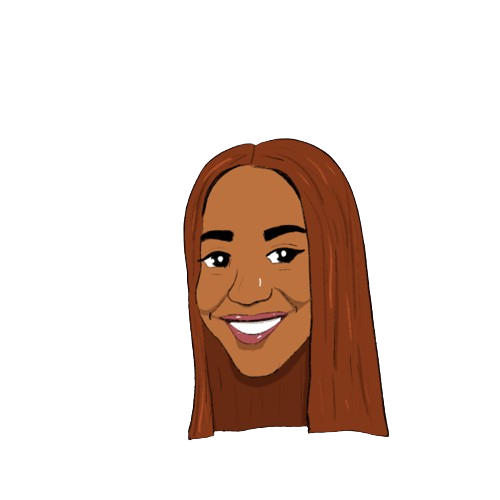
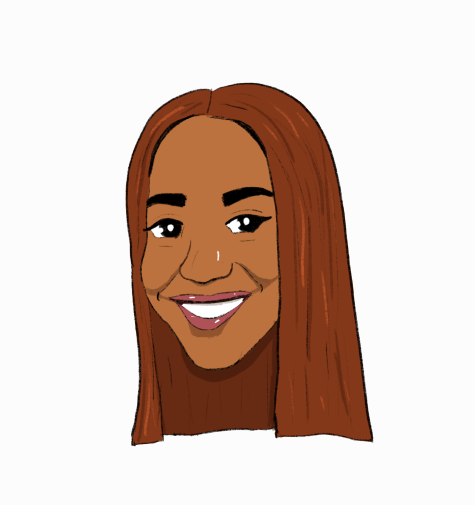
added button

Changed region(s): [[0.2653, 0.15, 0.7958, 0.9]]

diff --git a/src/components/Hero/Hero.js b/src/components/Hero/Hero.js
@@ -1,8 +1,11 @@
 import React from "react";
 import Ellipse4 from "../../Assets/Ellipse4.png";
 import Ellipse5 from "../../Assets/Ellipse5.png";
-import Ellipse6 from "../../Assets/Ellipse6.png";
+// import Ellipse6 from "../../Assets/Ellipse6.png";
+import button from "../../Assets/button.png";
+import Ellipse7 from "../../Assets/Ellipse7.png";
 import magic from "../../Assets/magic.png";
+
 import picture from "../../Assets/picture.png";
 
 const Hero = () => {
@@ -10,9 +13,6 @@ const Hero = () => {
     opacity: "1",
   };
 
-  // const stop = {
-  //   "stop-color: rgb(244, 242, 241)"
-  // }
   return (
     <section className="h-[64rem] bg-[#040013]">
       <header>
@@ -37,26 +37,33 @@ const Hero = () => {
             </p>
           </div>
           <div className="relative">
-            <img
+            {/* <img
               src={Ellipse6}
               alt=""
-              className="Ellipse2 absolute -top-[12rem] left-[20rem]"
-            />
+              className="Ellipse2 absolute -top-[8rem] left-[28rem]"
+            /> */}
           </div>
           <div className="flex flex-col relative justify-center -mt-5 items-center">
             <svg
               version="1.1"
               xmlns="http://www.w3.org/2000/svg"
               viewBox="0 0 500 500"
-              width="17.5%"
-              height="16%"
+              width="22%"
               id="blobSvg"
               style={{ opacity: 1 }}
               filter="blur(0px)"
-              transform="rotate(-177)"
-              className="blob"
+              transform="rotate(0)"
             >
-              {" "}
+              <image
+                x="0"
+                y="0"
+                width="100%"
+                height="100%"
+                clipPath="url(#shape)"
+                href={picture}
+                preserveAspectRatio="none"
+                fill="white"
+              ></image>{" "}
               <defs>
                 {" "}
                 <linearGradient id="gradient" x1="0%" y1="0%" x2="0%" y2="100%">
@@ -65,13 +72,16 @@ const Hero = () => {
                   <stop offset="100%" style={{ stopColor: "white" }} />{" "}
                 </linearGradient>{" "}
               </defs>{" "}
-              <path id="blob" fill="url(#gradient)" style={{ ...blobStyle }}>
-                <animate
-                  attributeName="d"
-                  dur="9000ms"
-                  repeatCount="indefinite"
-                  values="M425.57934,323.79599Q426.22734,397.59197,355.10104,419.41516Q283.97474,441.23834,222.29242,423.00907Q160.6101,404.77979,95.49644,367.33031Q30.38277,329.88083,44.58128,255.13536Q58.77979,180.3899,99.7419,120.41159Q140.70401,60.43329,214.57221,45.49287Q288.44042,30.55246,350.61367,72.29792Q412.78692,114.04339,418.85914,182.0217Q424.93135,250,425.57934,323.79599Z;M428.39652,310.63781Q395.12039,371.27562,337.58607,396.3189Q280.05174,421.36219,204.00896,441.94775Q127.96619,462.5333,107.32787,385.81839Q86.68955,309.10348,96.33581,253.18955Q105.98207,197.27562,134.68904,148.26665Q163.396,99.25769,224.43929,74.05174Q285.48258,48.8458,334.83632,93.40548Q384.19006,137.96516,422.93135,193.98258Q461.67264,250,428.39652,310.63781Z;M419.06254,317.79517Q411.11118,385.59033,349.66843,425.59894Q288.22568,465.60755,228.34547,428.45831Q168.46526,391.30906,120.24124,353.19622Q72.01722,315.08338,69.86103,249.40801Q67.70483,183.73263,103.47221,120.73263Q139.23958,57.73263,215.36631,36.75347Q291.49305,15.77432,346.41495,69.35242Q401.33686,122.93051,414.17538,186.46526Q427.0139,250,419.06254,317.79517Z;M453.57191,328.53752Q437.08754,407.07503,364.57816,448.74386Q292.06878,490.41269,219.55628,459.1657Q147.04377,427.91871,108.99375,371.46874Q70.94372,315.01876,56.52814,244.52814Q42.11255,174.03752,86.02814,107.96874Q129.94372,41.89995,209.98749,31.84993Q290.03126,21.79991,346.01876,71.89683Q402.00625,121.99375,436.03126,185.99687Q470.05628,250,453.57191,328.53752Z;M404.21696,312.89783Q400.5999,375.79567,344.18719,420.60848Q287.77447,465.42129,222.25959,438.51488Q156.7447,411.60848,114.36806,363.06382Q71.99143,314.51917,65.98083,247.80853Q59.97023,181.09788,105.72982,130.10217Q151.4894,79.10645,216.18088,77.25959Q280.87235,75.41272,335.88295,103.82341Q390.89355,132.2341,399.36378,191.11705Q407.83401,250,404.21696,312.89783Z;M429,328Q437,406,362,433Q287,460,218,442Q149,424,122.5,365Q96,306,74.5,242Q53,178,94.5,115Q136,52,206.5,73Q277,94,347.5,101.5Q418,109,419.5,179.5Q421,250,429,328Z;M433.0232,309.9192Q393.01281,369.83841,338.3352,406.40881Q283.6576,442.97921,221.7752,424.49281Q159.8928,406.0064,119.2384,358.9864Q78.584,311.9664,70.5304,246.7752Q62.4768,181.584,97.7552,114.4464Q133.0336,47.3088,206.208,64.61119Q279.3824,81.91359,342.208,100.8192Q405.0336,119.7248,439.0336,184.8624Q473.0336,250,433.0232,309.9192Z;M425.57934,323.79599Q426.22734,397.59197,355.10104,419.41516Q283.97474,441.23834,222.29242,423.00907Q160.6101,404.77979,95.49644,367.33031Q30.38277,329.88083,44.58128,255.13536Q58.77979,180.3899,99.7419,120.41159Q140.70401,60.43329,214.57221,45.49287Q288.44042,30.55246,350.61367,72.29792Q412.78692,114.04339,418.85914,182.0217Q424.93135,250,425.57934,323.79599Z"
-                ></animate>
+              <clipPath id="shape">
+                <path id="blob" fill="url(#gradient)" style={{ ...blobStyle }}>
+                  {" "}
+                  <animate
+                    attributeName="d"
+                    dur="10000ms"
+                    repeatCount="indefinite"
+                    values="M440.5,320.5Q418,391,355.5,442.5Q293,494,226,450.5Q159,407,99,367Q39,327,31.5,247.5Q24,168,89,125.5Q154,83,219.5,68Q285,53,335.5,94.5Q386,136,424.5,193Q463,250,440.5,320.5Z;M453.78747,319.98894Q416.97789,389.97789,353.96683,436.87838Q290.95577,483.77887,223.95577,447.43366Q156.95577,411.08845,105.64373,365.97789Q54.33169,320.86732,62.67444,252.61056Q71.01719,184.3538,113.01965,135.21007Q155.02211,86.06634,220.52211,66.46683Q286.02211,46.86732,335.5,91.94472Q384.97789,137.02211,437.78747,193.51106Q490.59704,250,453.78747,319.98894Z;M411.39826,313.90633Q402.59677,377.81265,342.92059,407.63957Q283.24442,437.46649,215.13648,432.5428Q147.02853,427.61911,82.23325,380.9572Q17.43796,334.29529,20.45223,250.83809Q23.46649,167.38089,82.5856,115.05707Q141.70471,62.73325,212.19045,63.73015Q282.67618,64.72705,352.67308,84.79839Q422.66998,104.86972,421.43486,177.43486Q420.19974,250,411.39826,313.90633Z;M440.5,320.5Q418,391,355.5,442.5Q293,494,226,450.5Q159,407,99,367Q39,327,31.5,247.5Q24,168,89,125.5Q154,83,219.5,68Q285,53,335.5,94.5Q386,136,424.5,193Q463,250,440.5,320.5Z;"
+                  ></animate>{" "}
+                </path>{" "}
                 <animateTransform
                   attributeName="transform"
                   attributeType="XML"
@@ -81,29 +91,27 @@ const Hero = () => {
                   dur="9000ms"
                   repeatCount="indefinite"
                 />
-              </path>
+              </clipPath>
             </svg>
-            <div className="absolute top-[1.5rem] left-[35.5rem]">
-              <img
-                src={picture}
-                alt=""
-                className="w-[17rem] h-[10rem] rounded-2xl object-cover"
-              />
-              <img
-                src={Ellipse5}
-                alt=""
-                className="absolute -top-[1rem] left-[10.5rem] Ellipse2"
-              />
-              <div className="relative">
-                <img
-                  src={Ellipse4}
-                  alt=""
-                  className="absolute top-[0.5rem] right-2 Ellipse"
-                />
-              </div>
+            <div className="absolute top-[2rem] right-[23rem]">
+              <img src={Ellipse5} alt="" className=" Ellipse2" />
+            </div>
+            <div className="absolute top-[7rem] left-[17rem]">
+              <img src={Ellipse7} alt="" className="Ellipse3" />
             </div>
           </div>
-          <div className="relative"></div>
+          <div className="relative">
+            <img
+              src={Ellipse4}
+              alt=""
+              className="absolute -top-[18rem] right-5 Ellipse4"
+            />
+          </div>
+          <div className="relative pt-[4.5rem]">
+            <button className="absolute inset-0 top-1/2 left-[43%] transform bg-gradient-to-b from-[#040013] via-[#040013] to-[#37024e] text-white border-[1px] border-[#A57F98] w-[12.5rem] h-[3.125rem] rounded-[1.875rem]">
+              Download my CV
+            </button>
+          </div>
         </div>
       </header>
     </section>

diff --git a/src/components/Store.js b/src/components/Store.js
@@ -1,0 +1,49 @@
+{
+  /* <svg
+              version="1.1"
+              xmlns="http://www.w3.org/2000/svg"
+              viewBox="0 0 500 500"
+              width="17.5%"
+              height="16%"
+              id="blobSvg"
+              style={{ opacity: 1 }}
+              filter="blur(0px)"
+              transform="rotate(-31)"
+            >
+              <image
+                x="0"
+                y="0"
+                width="100%"
+                height="100%"
+                clip-path="url(#shape)"
+                href={picture}
+                preserveAspectRatio="none"
+              ></image>
+              <defs>
+                {" "}
+                <linearGradient id="gradient" x1="0%" y1="0%" x2="0%" y2="100%">
+                  {" "}
+                  <stop offset="0%" style={{ stopColor: "white" }} />
+                  <stop offset="100%" style={{ stopColor: "white" }} />{" "}
+                </linearGradient>{" "}
+              </defs>{" "}
+              <path id="blob" fill="url(#gradient)" style={{ ...blobStyle }}>
+                <animate
+                  attributeName="d"
+                  dur="9000ms"
+                  repeatCount="indefinite"
+                  // values="M425.57934,323.79599Q426.22734,397.59197,355.10104,419.41516Q283.97474,441.23834,222.29242,423.00907Q160.6101,404.77979,95.49644,367.33031Q30.38277,329.88083,44.58128,255.13536Q58.77979,180.3899,99.7419,120.41159Q140.70401,60.43329,214.57221,45.49287Q288.44042,30.55246,350.61367,72.29792Q412.78692,114.04339,418.85914,182.0217Q424.93135,250,425.57934,323.79599Z;M428.39652,310.63781Q395.12039,371.27562,337.58607,396.3189Q280.05174,421.36219,204.00896,441.94775Q127.96619,462.5333,107.32787,385.81839Q86.68955,309.10348,96.33581,253.18955Q105.98207,197.27562,134.68904,148.26665Q163.396,99.25769,224.43929,74.05174Q285.48258,48.8458,334.83632,93.40548Q384.19006,137.96516,422.93135,193.98258Q461.67264,250,428.39652,310.63781Z;M419.06254,317.79517Q411.11118,385.59033,349.66843,425.59894Q288.22568,465.60755,228.34547,428.45831Q168.46526,391.30906,120.24124,353.19622Q72.01722,315.08338,69.86103,249.40801Q67.70483,183.73263,103.47221,120.73263Q139.23958,57.73263,215.36631,36.75347Q291.49305,15.77432,346.41495,69.35242Q401.33686,122.93051,414.17538,186.46526Q427.0139,250,419.06254,317.79517Z;M453.57191,328.53752Q437.08754,407.07503,364.57816,448.74386Q292.06878,490.41269,219.55628,459.1657Q147.04377,427.91871,108.99375,371.46874Q70.94372,315.01876,56.52814,244.52814Q42.11255,174.03752,86.02814,107.96874Q129.94372,41.89995,209.98749,31.84993Q290.03126,21.79991,346.01876,71.89683Q402.00625,121.99375,436.03126,185.99687Q470.05628,250,453.57191,328.53752Z;M404.21696,312.89783Q400.5999,375.79567,344.18719,420.60848Q287.77447,465.42129,222.25959,438.51488Q156.7447,411.60848,114.36806,363.06382Q71.99143,314.51917,65.98083,247.80853Q59.97023,181.09788,105.72982,130.10217Q151.4894,79.10645,216.18088,77.25959Q280.87235,75.41272,335.88295,103.82341Q390.89355,132.2341,399.36378,191.11705Q407.83401,250,404.21696,312.89783Z;M429,328Q437,406,362,433Q287,460,218,442Q149,424,122.5,365Q96,306,74.5,242Q53,178,94.5,115Q136,52,206.5,73Q277,94,347.5,101.5Q418,109,419.5,179.5Q421,250,429,328Z;M433.0232,309.9192Q393.01281,369.83841,338.3352,406.40881Q283.6576,442.97921,221.7752,424.49281Q159.8928,406.0064,119.2384,358.9864Q78.584,311.9664,70.5304,246.7752Q62.4768,181.584,97.7552,114.4464Q133.0336,47.3088,206.208,64.61119Q279.3824,81.91359,342.208,100.8192Q405.0336,119.7248,439.0336,184.8624Q473.0336,250,433.0232,309.9192Z;M425.57934,323.79599Q426.22734,397.59197,355.10104,419.41516Q283.97474,441.23834,222.29242,423.00907Q160.6101,404.77979,95.49644,367.33031Q30.38277,329.88083,44.58128,255.13536Q58.77979,180.3899,99.7419,120.41159Q140.70401,60.43329,214.57221,45.49287Q288.44042,30.55246,350.61367,72.29792Q412.78692,114.04339,418.85914,182.0217Q424.93135,250,425.57934,323.79599Z"
+                ></animate>
+                <animateTransform
+                  attributeName="transform"
+                  attributeType="XML"
+                  type="rotate"
+                  from="0 250 250"
+                  to="360 250 250"
+                  dur="9000ms"
+                  repeatCount="indefinite"
+                />
+              </path>
+            </svg> */
+  // absolute -top-[1rem] left-[10.5rem]
+}

diff --git a/src/App.css b/src/App.css
@@ -19,12 +19,28 @@ body {
   transform: rotate(-36.156deg);
 }
 .Ellipse3 {
-  width: 20.65625rem;
-  height: 13.99356rem;
+  width: 17.97775rem;
+  height: 17.7005rem;
   transform: rotate(-36.156deg);
-  border-radius: 20.65625rem;
+  border-radius: 17.97775rem;
   background: rgba(12, 56, 98, 0.5);
   filter: blur(150px);
+}
+.Ellipse4 {
+  width: 22.98288rem;
+  height: 25.20706rem;
+  transform: rotate(38.213deg);
+  border-radius: 25.20706rem;
+  background: rgba(99, 63, 211, 0.2);
+  filter: blur(150px);
+}
+
+.bgs {
+  width: 18.3125rem;
+  height: 2.1875rem;
+  border-radius: 18.3125rem;
+  background: #b410ff;
+  filter: blur(100px);
 }
 
 .text-white li:hover {

diff --git a/src/components/NavBar/NavBar.js b/src/components/NavBar/NavBar.js
@@ -5,7 +5,7 @@ import Ellipse2 from "../../Assets/Ellipse2.png";
 
 const NavBar = () => {
   return (
-    <section className="h-full bg-[#040013] relative z-50">
+    <section className="h-[8rem] bg-[#040013] relative z-50">
       <nav className="max-w-[80rem] mx-auto flex justify-between py-[4.45rem] ">
         <ul className="text-white flex space-x-[2.56rem] z-50">
           <li className="hover:text-[#C979CF] text-[1.125rem] font-normal leading-[1rem] tracking-[0.00563rem]">
